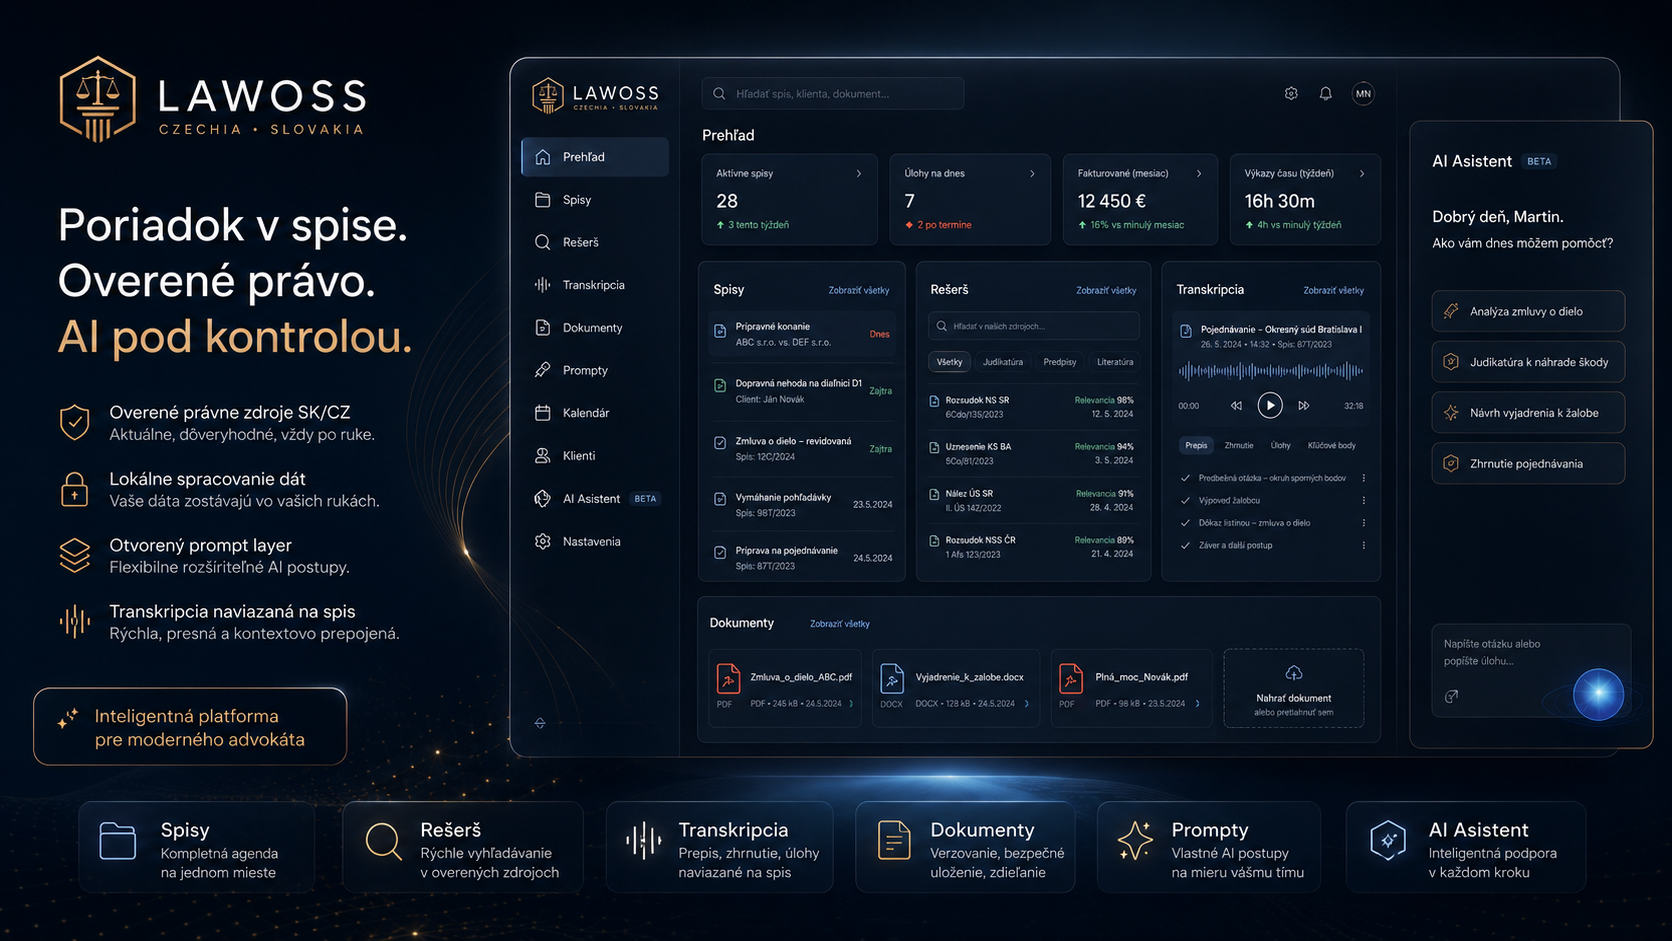
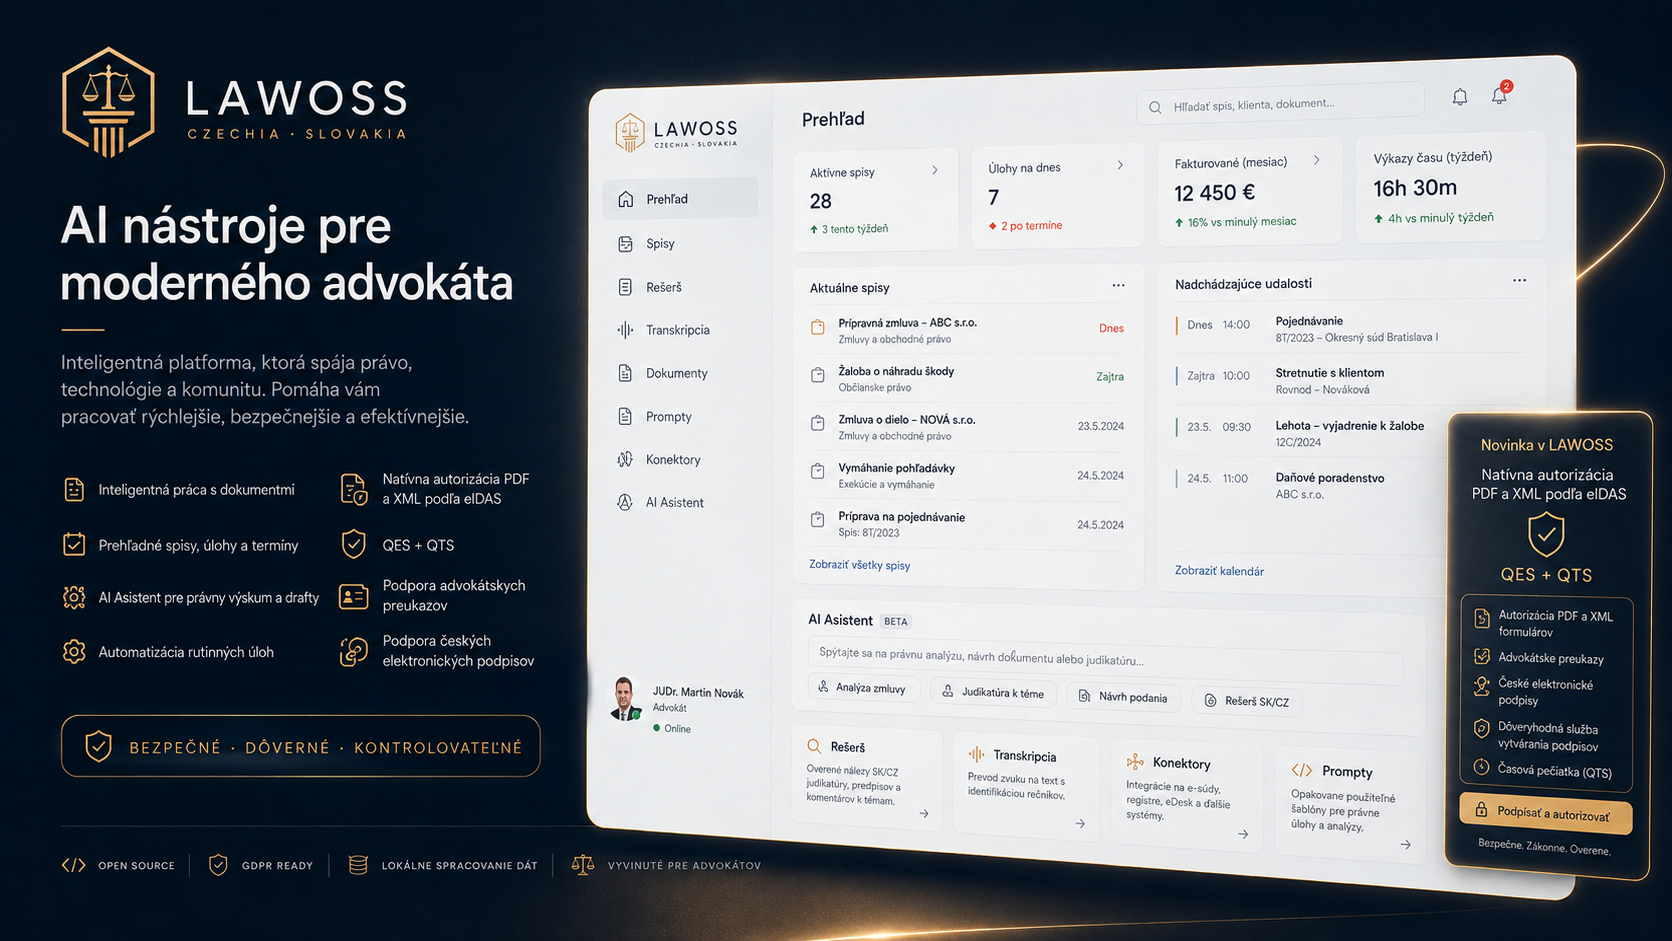
docs: pregenerované keyvisualy (CZECHIA · SLOVAKIA) + evidencia eIDAS funkcie
Všetky štyri keyvisualy vymenené za pregenerované verzie so správnym
wordmarkom "CZECHIA · SLOVAKIA". Pribudol štvrtý — keyvisual-features.png
so šiestimi funkciami v detaile. Poznámka o starom podpise z README
odstránená; moodboard.png zostáva na pregenerovanie.

Vizuály propagujú funkciu, ktorá v repe nemá žiadny záznam:
NATÍVNA AUTORIZÁCIA PDF A XML PODĽA eIDAS (QES + QTS, advokátske
preukazy, české elektronické podpisy, dôveryhodná služba vytvárania
podpisov, časová pečiatka), a to označená ako "Novinka v LAWOSS".

Zaevidované ako návrh #19 v navrhy.md a ako úloha v backlogu, vrátane
upozornenia na väzbu na spec 0004, ktorý zápisové úkony pod
kvalifikovaným podpisom označuje za najvyššie riziko celého projektu.
V README je pri tejto položke označené, že spec zatiaľ neexistuje.

Ako návrh #20 zaevidovaná aj fakturácia a výkazy času, ktoré sú
v rozhraní na vizuáloch, ale tiež bez specu.

AUTO sekcie README nedotknuté.

diff --git a/assets/brand/README.md b/assets/brand/README.md
@@ -7,9 +7,10 @@ Vizuálne podklady značky **LAWOSS** *(Czechia · Slovakia)*.
 | Súbor | Čo to je | Kde sa zobrazí |
 |---|---|---|
 | `logo.png` | okrúhly odznak LAWOSS (hexagonálny štít, váhy, stĺp, CZ+SK vlajky) | [README repa](../../README.md), [brand-concept](../../docs/brand-concept.md), avatar Telegram skupiny |
-| `keyvisual-hero.png` | hlavný keyvisual — *„AI nástroje pre moderného advokáta"*, mobil + desktop na podstavci | [README repa](../../README.md) — hlavička |
-| `keyvisual-dashboard.png` | desktopové rozhranie — *„Poriadok v spise. Overené právo. AI pod kontrolou."* | [README repa](../../README.md) — sekcia *Ako to má vyzerať* |
-| `keyvisual-mobile.png` | mobil + desktop — *„Advokátska prax pod kontrolou, kdekoľvek"* | [README repa](../../README.md) — sekcia *Ako to má vyzerať* |
+| `keyvisual-hero.png` | hlavný keyvisual — *„Poriadok v spise. Overené právo. AI pod kontrolou."* + dashboard a eIDAS panel | [README repa](../../README.md) — hlavička |
+| `keyvisual-dashboard.png` | *„AI nástroje pre moderného advokáta"* — dashboard a zoznam funkcií | [README repa](../../README.md) — sekcia *Ako to má vyzerať* |
+| `keyvisual-features.png` | šesť funkcií v detaile — prehľad spisu, výskum s citáciami, transkripcia, editor promptov, AI asistent, autorizácia PDF/XML | [README repa](../../README.md) — sekcia *Ako to má vyzerať* |
+| `keyvisual-mobile.png` | mobil + desktop — *„Poriadok v spise. AI pod kontrolou."* | [README repa](../../README.md) — sekcia *Ako to má vyzerať* |
 | `mockup.png` | starší koncept rozhrania *(nahradený keyvisualmi; ponechaný pre históriu)* | [brand-concept](../../docs/brand-concept.md) |
 | `moodboard.png` | moodboard značky | [brand-concept](../../docs/brand-concept.md) |
 
@@ -25,7 +26,8 @@ Vizuálne podklady značky **LAWOSS** *(Czechia · Slovakia)*.
 | `logo.png` | ✅ CZECHIA · SLOVAKIA | — |
 | `keyvisual-hero.png` | ✅ CZECHIA · SLOVAKIA | — |
 | `keyvisual-dashboard.png` | ✅ CZECHIA · SLOVAKIA | — |
-| `keyvisual-mobile.png` | ❌ len „SLOVAKIA" | **pregenerovať** |
+| `keyvisual-features.png` | ✅ CZECHIA · SLOVAKIA | — |
+| `keyvisual-mobile.png` | ✅ CZECHIA · SLOVAKIA *(pregenerované 2026-08-06)* | — |
 | `moodboard.png` | ❌ „LAWOSS SLOVAKIA" + starý odkaz `t.me/LawOSS_Slovakia` | **pregenerovať** *(už evidované v [brand-concept](../../docs/brand-concept.md))* |
 
 > [!IMPORTANT]

diff --git a/README.md b/README.md
@@ -83,10 +83,15 @@ Nechceme „ďalší AI editor dokumentov". Ťažisko je **[organizácia advoká
 
 <br><br>
 
+<img src="assets/brand/keyvisual-features.png" alt="LAWOSS — šesť hlavných funkcií" width="100%" />
+
+<sub><i>Prehľad spisu · Právny výskum s citáciami · Transkripcia · Editor promptov · AI Asistent · Autorizácia PDF a XML</i></sub>
+
+<br><br>
+
 <img src="assets/brand/keyvisual-mobile.png" alt="LAWOSS — mobilné a desktopové rozhranie" width="100%" />
 
-<sub><i>Advokátska prax pod kontrolou, kdekoľvek — mobil aj desktop</i><br/>
-<i>⚠ Tento vizuál má v logu ešte starý podpis „SLOVAKIA" — čaká na pregenerovanie s <b>CZECHIA · SLOVAKIA</b>.</i></sub>
+<sub><i>Prax pod kontrolou, kdekoľvek — mobil aj desktop</i></sub>
 
 </div>
 
@@ -98,6 +103,8 @@ Nechceme „ďalší AI editor dokumentov". Ťažisko je **[organizácia advoká
 | **Rešerš** s relevanciou nad rozhodnutiami NS, ÚS a KS | [SK MCP konektory](specs/0004-mcp-sk-konektory.md) |
 | **Transkripcia** naviazaná na konkrétny spis, s úlohami a lehotami | [spec 0001](specs/0001-transkripcia.md) + [lehoty a timeline](specs/0005-lehoty-timeline.md) |
 | **Prompty** ako vlastné AI postupy | [otvorený prompt layer](specs/0003-prompt-layer.md) |
+| **Konektory** na e-súdy, registre a služby tretích strán | [spec 0004](specs/0004-mcp-sk-konektory.md) |
+| **Autorizácia PDF a XML podľa eIDAS** (QES + QTS) | ⚠ **zatiaľ bez specu** — [návrh #19](specs/navrhy.md) |
 | **Lokálne spracovanie dát** | dáta zostávajú u advokáta — mlčanlivosť a GDPR |
 
 ## 🧩 Základ — rozhodnuté

diff --git a/planning/backlog.md b/planning/backlog.md
@@ -60,4 +60,7 @@ Zdroj: [zápis zo sync callu](../meetings/2026-08-06-sync-call-volba-zakladu.md)
 - [ ] ⚠ **Štruktúra repozitárov** — koordinácia oddelene od kódu → **[ADR 0005](../decisions/0005-struktura-repozitarov.md)** *(návrh napísaný; zahŕňa GitHub organizáciu a zverejnenie `judikaty-mcp`)*
 - [ ] Ktorá verzia LegalWork sa forkne (tag/commit)?
 - [ ] Čím nahradiť marketingovú expozíciu po upustení od Mikea *(názov LAWOSS zostáva)*
-- [ ] 🎨 **Zjednotiť wordmark — všade „CZECHIA · SLOVAKIA"** — pregenerovať `keyvisual-mobile.png` (má len „SLOVAKIA") a `moodboard.png` (starý wordmark + odkaz `t.me/LawOSS_Slovakia`) → [pravidlo v assets/brand](../assets/brand/README.md)
+- [x] ✅ **Zjednotiť wordmark — keyvisualy pregenerované 2026-08-06** so správnym „CZECHIA · SLOVAKIA" → [pravidlo v assets/brand](../assets/brand/README.md)
+- [ ] 🎨 Pregenerovať `moodboard.png` — stále nesie starý wordmark „LAWOSS SLOVAKIA" a odkaz `t.me/LawOSS_Slovakia`
+- [ ] ⚠ **Spec pre autorizáciu PDF/XML podľa eIDAS (QES + QTS)** — [návrh #19](../specs/navrhy.md). **Vizuály to už propagujú ako „Novinku v LAWOSS", ale v repe o tom nie je ani riadok.** Dotýka sa advokátskych preukazov, českých el. podpisov a kvalifikovanej časovej pečiatky — pozor na väzbu na [spec 0004](../specs/0004-mcp-sk-konektory.md), ktorý zápisové úkony pod kvalifikovaným podpisom označuje za najvyššie riziko.
+- [ ] 💰 **Fakturácia a výkazy času** — [návrh #20](../specs/navrhy.md); v rozhraní na vizuáloch, bez specu

diff --git a/specs/navrhy.md b/specs/navrhy.md
@@ -41,6 +41,8 @@ Kto čo navrhol, v akom je to stave a kde to žije
 | 16 | **Modulové rozhranie plug-and-play** — moduly ako LEGO nad jednotným základom, bezpečnostné hranice | **MČ** *(spracúva IR)* | 2026-08-06 | 📝 návrh · IR do 2026-08-19 | [call 6. 8.](../meetings/2026-08-06-sync-call-volba-zakladu.md) |
 | 17 | **Rešeršný workflow „one-click"** — dotaz → rešerš → projektové artefakty, cez NotebookLM CLI | **MČ** | 2026-08-06 | 💭 nápad | [call 6. 8.](../meetings/2026-08-06-sync-call-volba-zakladu.md) |
 | 18 | **Google Workspace integrácia** — e-maily a marketingový outreach cez harness | **MČ** | 2026-08-06 | 💭 nápad · nízka priorita | [call 6. 8.](../meetings/2026-08-06-sync-call-volba-zakladu.md) |
+| 19 | **Natívna autorizácia PDF a XML podľa eIDAS** — QES + QTS, advokátske preukazy, české elektronické podpisy, dôveryhodná služba vytvárania podpisov, časová pečiatka | **MČ** | 2026-08-06 | ⚠ **propagované vo vizuáloch, ale bez specu** — treba rozpísať | [keyvisualy](../assets/brand/) |
+| 20 | **Fakturácia a výkazy času** — v rozhraní na vizuáloch (Fakturácia, Výkazy času, Šablóny) | **MČ** | 2026-08-06 | 💭 nápad · bez specu | [keyvisualy](../assets/brand/) |
 
 ### Legenda stavov
 
